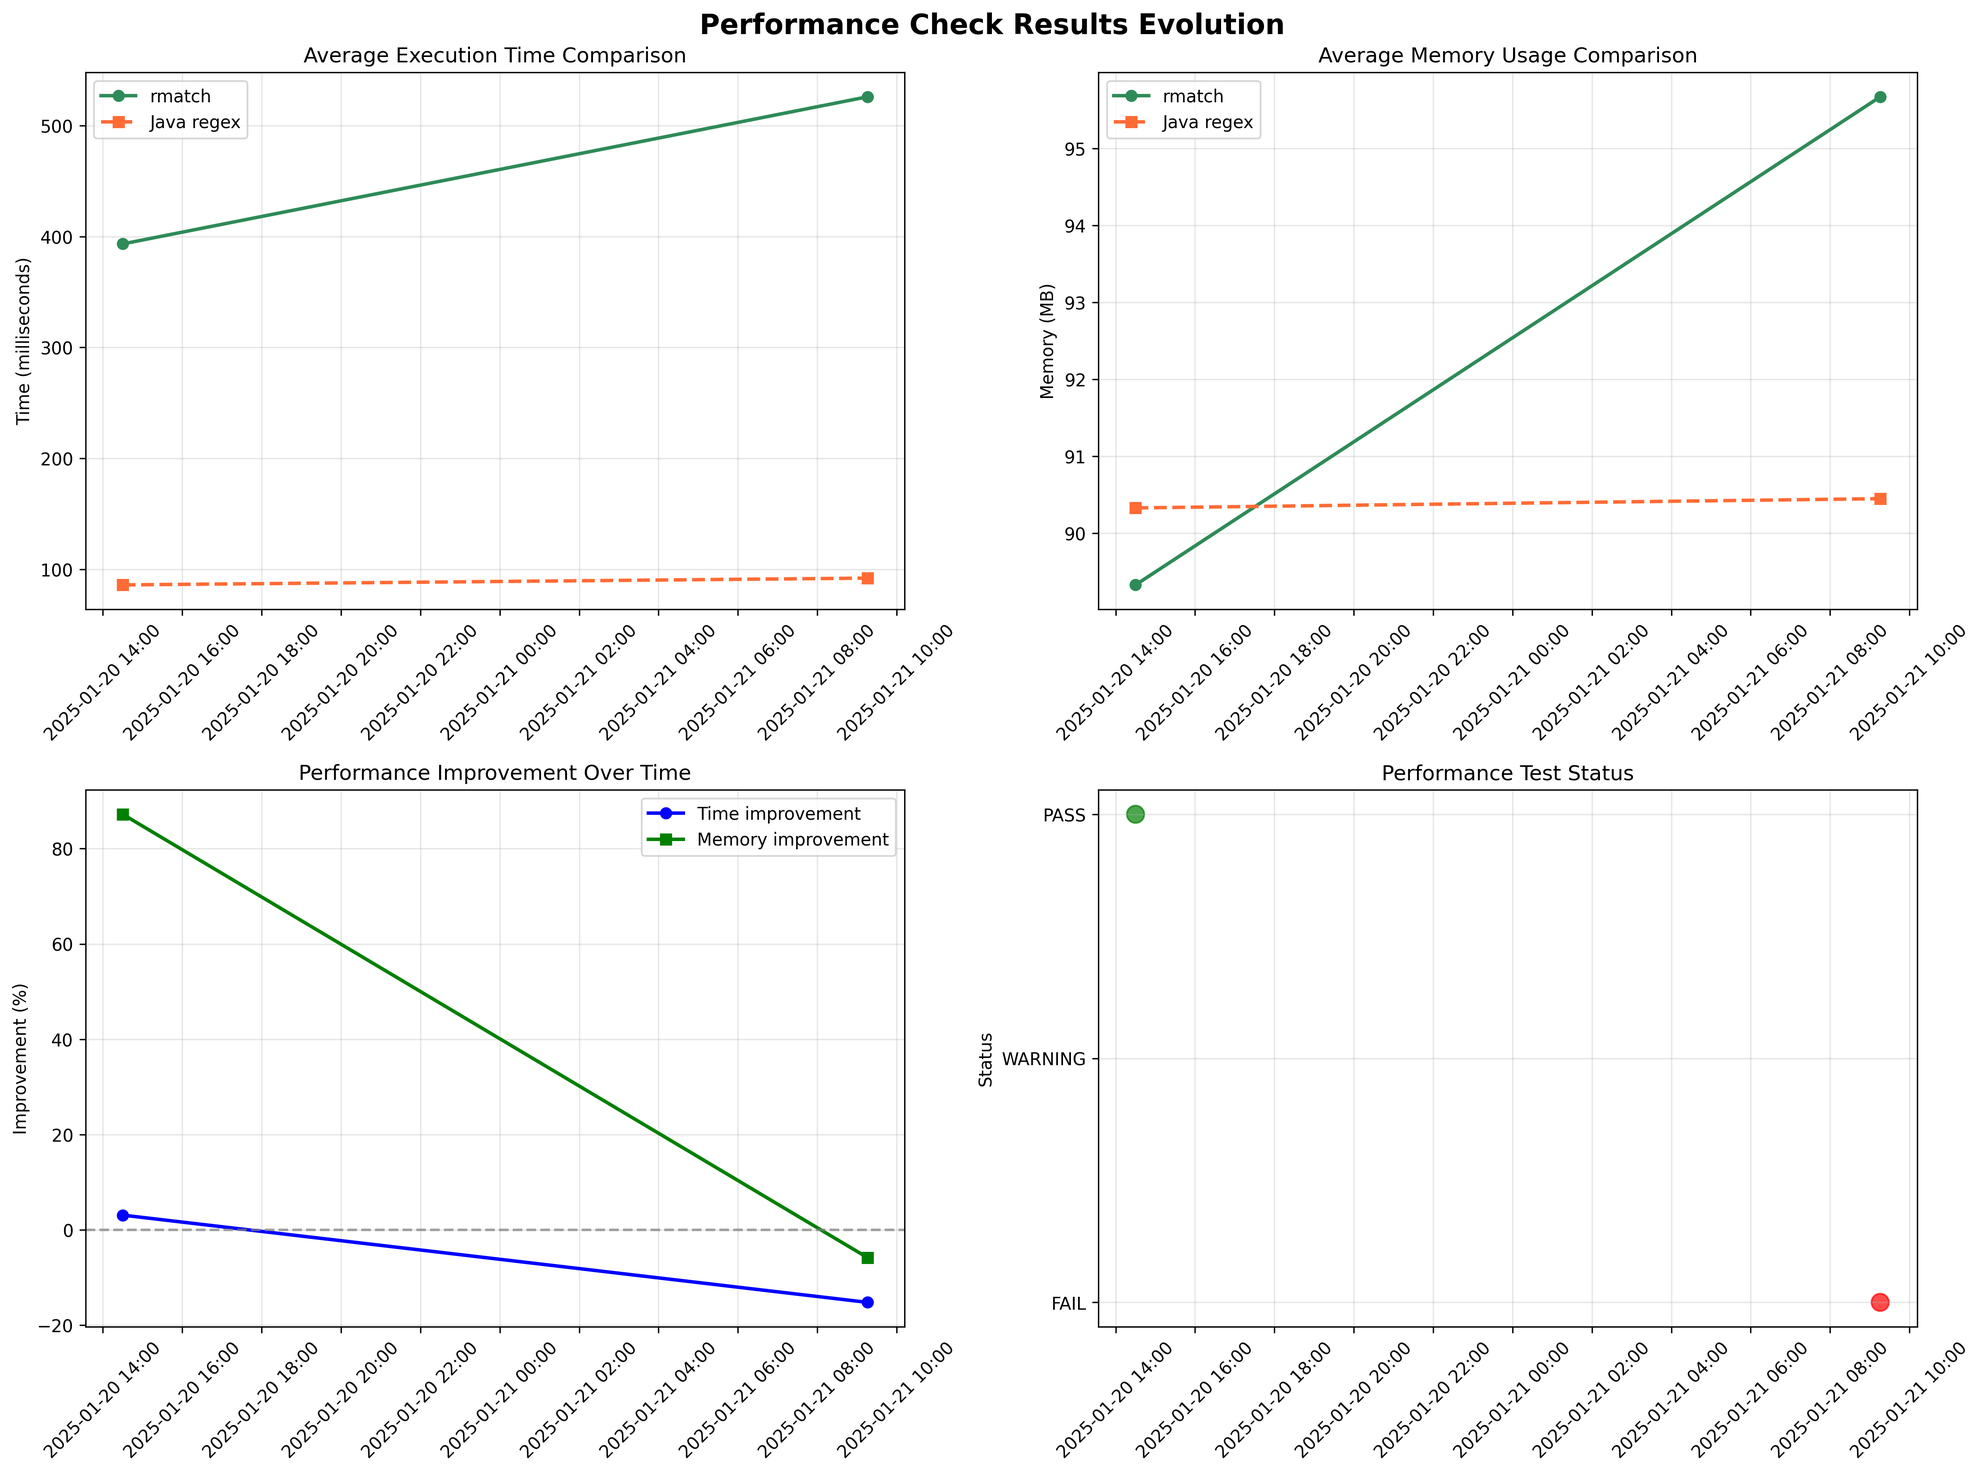
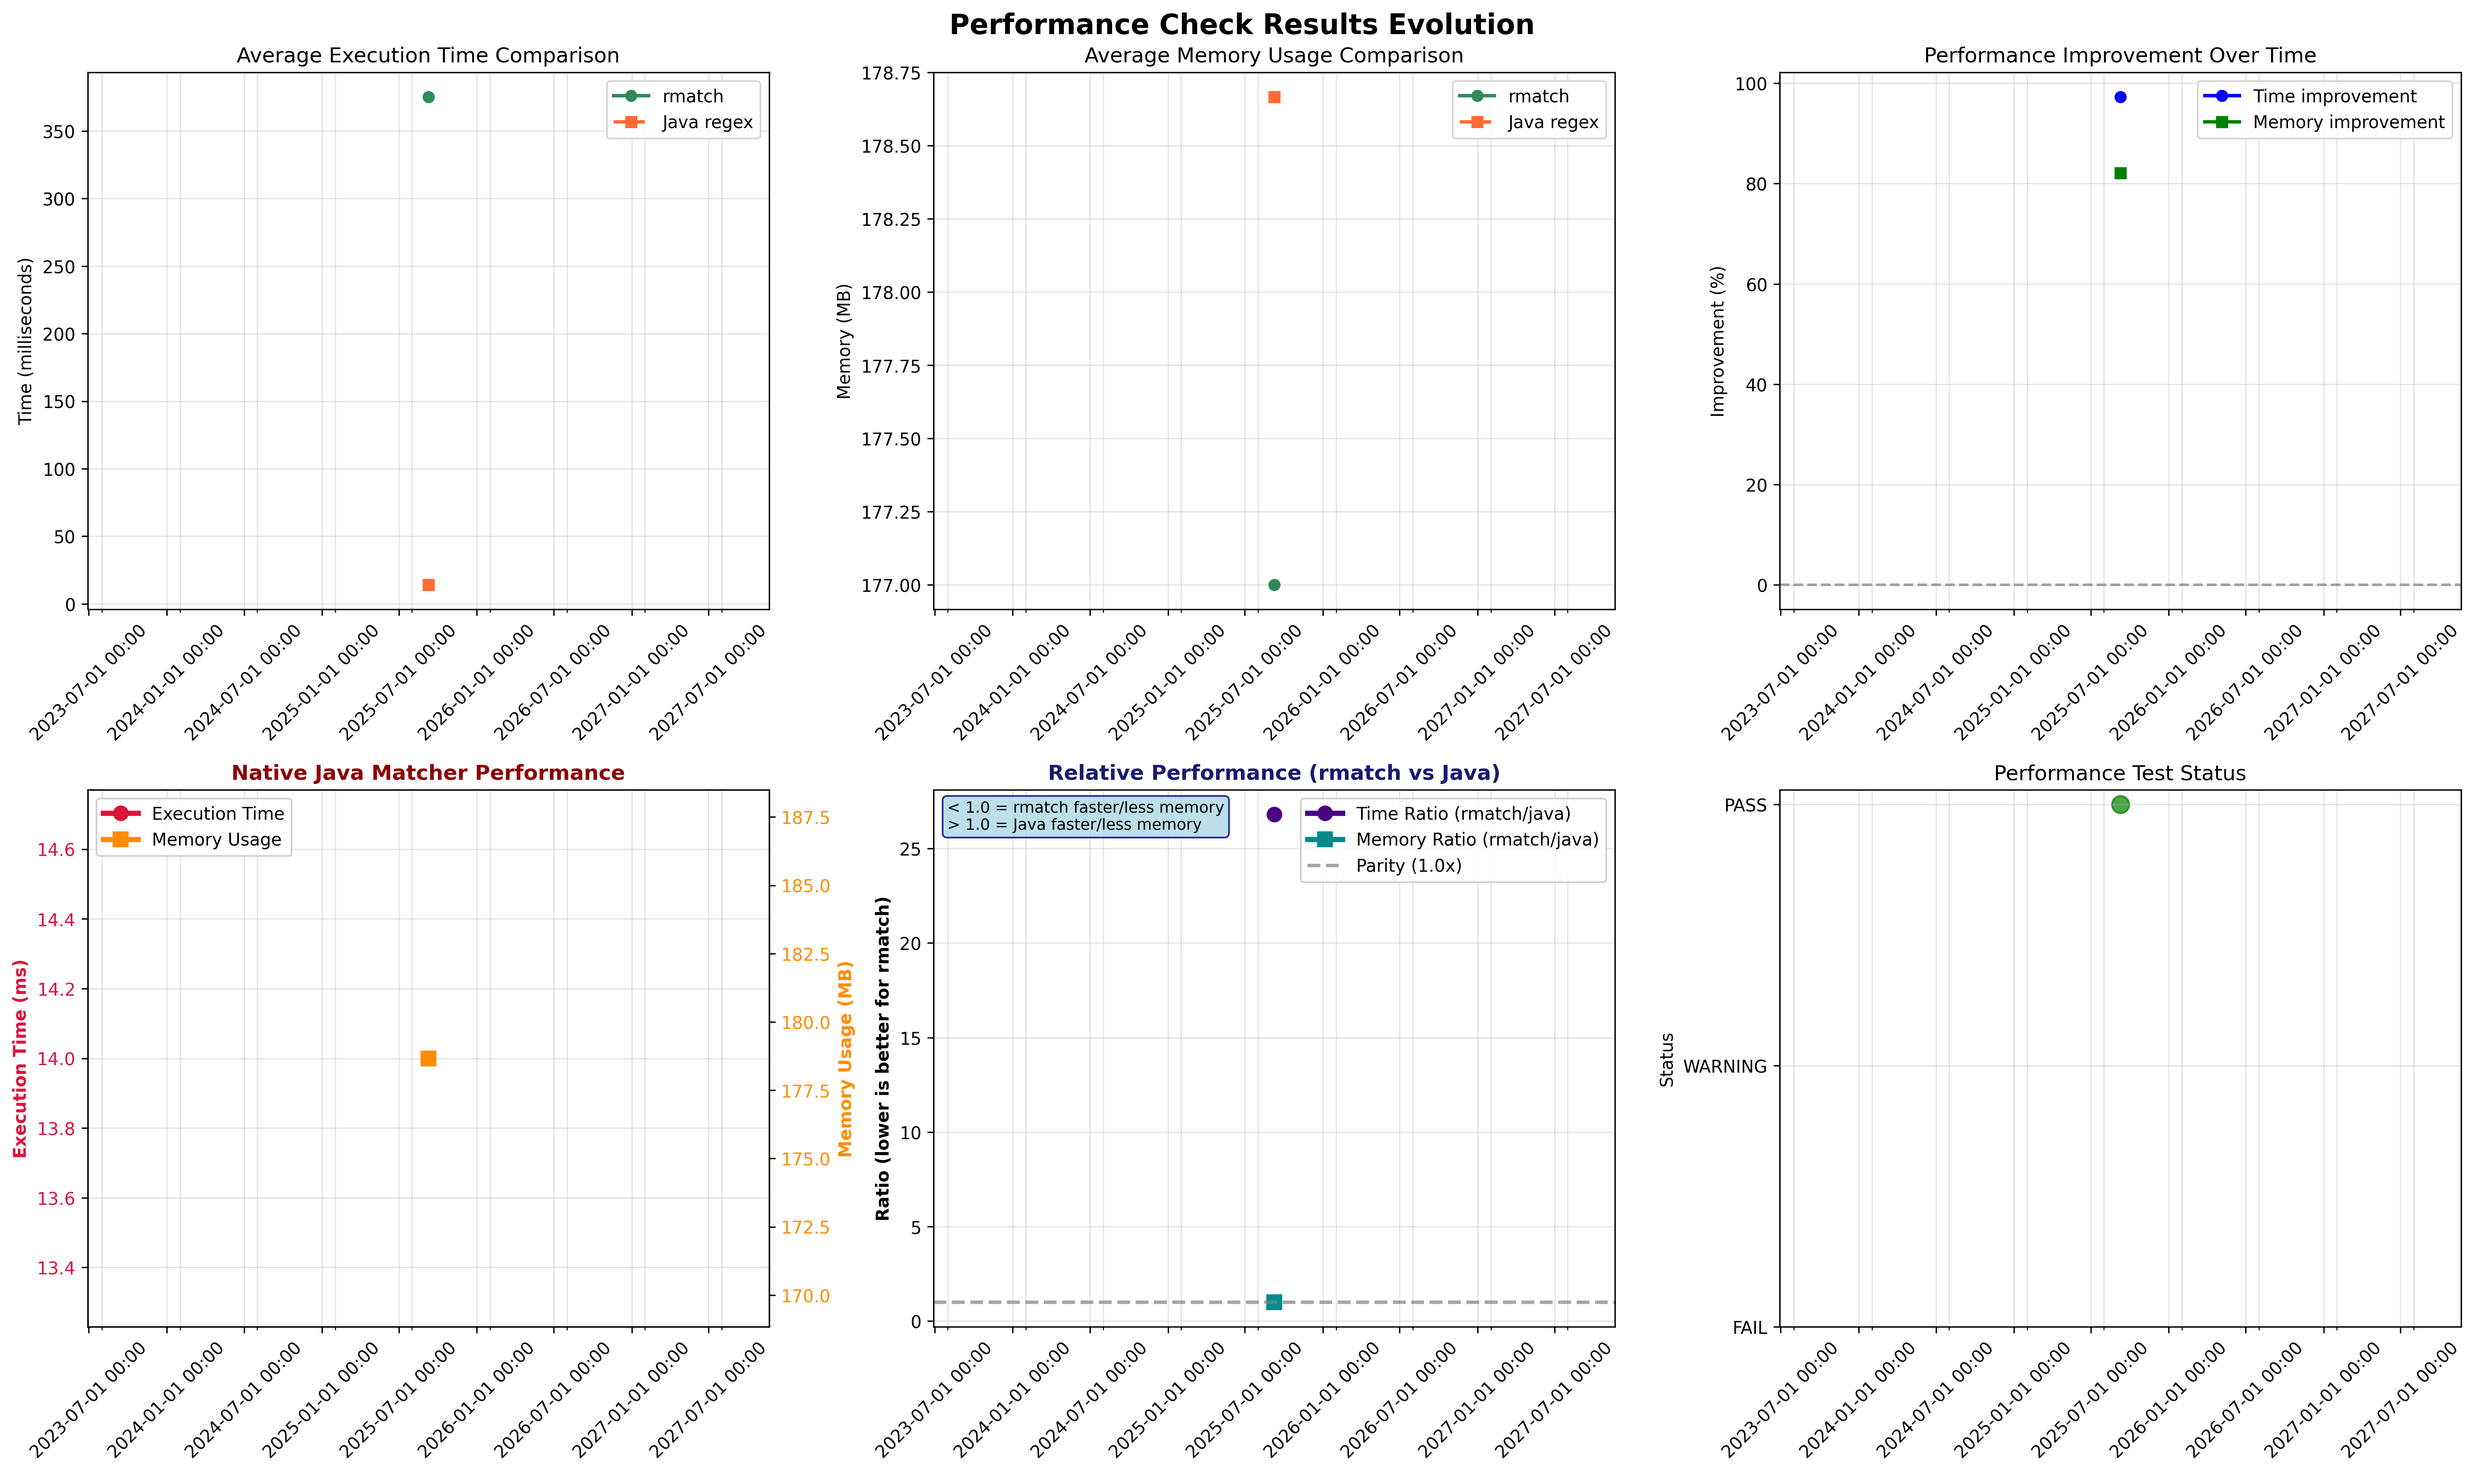
Add native Java data panels to performance comparisons

diff --git a/rmatch-tester/src/main/java/no/rmz/rmatch/performancetests/GitHubActionPerformanceTestRunner.java b/rmatch-tester/src/main/java/no/rmz/rmatch/performancetests/GitHubActionPerformanceTestRunner.java
@@ -196,10 +196,10 @@ public final class GitHubActionPerformanceTestRunner {
 
       markdown.append("**Result**: ").append(perfResult.getExplanation()).append("\n\n");
 
-      // Performance metrics table
-      markdown.append("### 📊 Performance Metrics\n\n");
-      markdown.append("| Metric | Current (rmatch) | Baseline | Δ |\n");
-      markdown.append("|--------|------------------|----------|---|\n");
+      // Performance metrics table for rmatch
+      markdown.append("### 📊 rmatch Performance Metrics\n\n");
+      markdown.append("| Metric | Current | Baseline | Δ |\n");
+      markdown.append("|--------|---------|----------|---|\n");
 
       if (!result.getRmatchResults().isEmpty()) {
         double currentAvgTime =
@@ -234,6 +234,124 @@ public final class GitHubActionPerformanceTestRunner {
             .append("| **Statistical Significance** | ")
             .append(perfResult.isStatisticallySignificant() ? "✅ Yes" : "⚠ Low")
             .append(" | - | - |\n");
+      }
+
+      // NEW: Native Java Matcher Performance Panel
+      markdown.append("\n### 🔴 Native Java Matcher Performance\n\n");
+      markdown.append("| Metric | Current Value |\n");
+      markdown.append("|--------|---------------|\n");
+
+      if (!result.getJavaResults().isEmpty()) {
+        double javaAvgTime =
+            result.getJavaResults().stream()
+                .mapToLong(r -> r.durationInMillis())
+                .average()
+                .orElse(0);
+        double javaAvgMemory =
+            result.getJavaResults().stream().mapToLong(r -> r.usedMemoryInMb()).average().orElse(0);
+
+        markdown
+            .append("| **Execution Time** | ")
+            .append(String.format("%.0f ms", javaAvgTime))
+            .append(" |\n");
+        markdown
+            .append("| **Memory Usage** | ")
+            .append(String.format("%.0f MB", javaAvgMemory))
+            .append(" |\n");
+        markdown
+            .append("| **Test Runs** | ")
+            .append(result.getJavaResults().size())
+            .append(" iterations |\n");
+      } else {
+        markdown.append("| No Java performance data available | - |\n");
+      }
+
+      // NEW: Relative Performance Comparison Panel
+      markdown.append("\n### ⚖ Relative Performance (rmatch vs Java)\n\n");
+      markdown.append("| Comparison | Ratio | Interpretation |\n");
+      markdown.append("|------------|-------|----------------|\n");
+
+      if (!result.getRmatchResults().isEmpty() && !result.getJavaResults().isEmpty()) {
+        double rmatchAvgTime =
+            result.getRmatchResults().stream()
+                .mapToLong(r -> r.durationInMillis())
+                .average()
+                .orElse(0);
+        double rmatchAvgMemory =
+            result.getRmatchResults().stream()
+                .mapToLong(r -> r.usedMemoryInMb())
+                .average()
+                .orElse(0);
+        double javaAvgTime =
+            result.getJavaResults().stream()
+                .mapToLong(r -> r.durationInMillis())
+                .average()
+                .orElse(0);
+        double javaAvgMemory =
+            result.getJavaResults().stream().mapToLong(r -> r.usedMemoryInMb()).average().orElse(0);
+
+        // Calculate ratios
+        double timeRatio = javaAvgTime > 0 ? rmatchAvgTime / javaAvgTime : 0;
+        double memoryRatio = javaAvgMemory > 0 ? rmatchAvgMemory / javaAvgMemory : 0;
+
+        String timeInterpretation;
+        String timeEmoji;
+        if (timeRatio < 0.8) {
+          timeInterpretation = "rmatch significantly faster";
+          timeEmoji = "🟢";
+        } else if (timeRatio < 1.2) {
+          timeInterpretation = "comparable performance";
+          timeEmoji = "🟡";
+        } else {
+          timeInterpretation = "Java regex faster";
+          timeEmoji = "🔴";
+        }
+
+        String memoryInterpretation;
+        String memoryEmoji;
+        if (memoryRatio < 0.8) {
+          memoryInterpretation = "rmatch uses less memory";
+          memoryEmoji = "🟢";
+        } else if (memoryRatio < 1.2) {
+          memoryInterpretation = "comparable memory usage";
+          memoryEmoji = "🟡";
+        } else {
+          memoryInterpretation = "Java regex uses less memory";
+          memoryEmoji = "🔴";
+        }
+
+        markdown
+            .append("| **Time Ratio (rmatch/java)** | ")
+            .append(String.format("%.2fx", timeRatio))
+            .append(" | ")
+            .append(timeEmoji)
+            .append(" ")
+            .append(timeInterpretation)
+            .append(" |\n");
+        markdown
+            .append("| **Memory Ratio (rmatch/java)** | ")
+            .append(String.format("%.2fx", memoryRatio))
+            .append(" | ")
+            .append(memoryEmoji)
+            .append(" ")
+            .append(memoryInterpretation)
+            .append(" |\n");
+
+        // Add overall summary
+        boolean timeWin = timeRatio < 1.0;
+        boolean memoryWin = memoryRatio < 1.0;
+        String overallSummary;
+        if (timeWin && memoryWin) {
+          overallSummary = "🏆 rmatch outperforms Java regex in both time and memory";
+        } else if (timeWin || memoryWin) {
+          overallSummary =
+              "⚖ Mixed performance: rmatch better in " + (timeWin ? "time" : "memory");
+        } else {
+          overallSummary = "❌ Java regex outperforms rmatch in both metrics";
+        }
+        markdown.append("| **Overall Assessment** | - | ").append(overallSummary).append(" |\n");
+      } else {
+        markdown.append("| No comparative data available | - | - |\n");
       }
 
       markdown.append("\n### 🔬 Test Configuration\n");

diff --git a/scripts/generate_performance_charts.py b/scripts/generate_performance_charts.py
@@ -159,8 +159,8 @@ def create_performance_check_chart(df, output_dir):
     # Sort by date
     df = df.sort_values('datetime')
     
-    # Create figure with subplots
-    fig, ((ax1, ax2), (ax3, ax4)) = plt.subplots(2, 2, figsize=(16, 12))
+    # Create figure with 6 subplots (2x3) to include the requested new panels
+    fig, ((ax1, ax2, ax3), (ax4, ax5, ax6)) = plt.subplots(2, 3, figsize=(20, 12))
     fig.suptitle('Performance Check Results Evolution', fontsize=16, fontweight='bold')
     
     # 1. Execution time comparison
@@ -210,7 +210,59 @@ def create_performance_check_chart(df, output_dir):
             ax3.grid(True, alpha=0.3)
             format_recent_time_axis(ax3)
     
-    # 4. Test status over time
+    # 4. NEW: Dedicated Native Java Matcher Performance Panel
+    if 'java_avg_time_ms' in df.columns and 'java_avg_memory_mb' in df.columns:
+        valid_data = df.dropna(subset=['java_avg_time_ms', 'java_avg_memory_mb'])
+        if not valid_data.empty:
+            # Create secondary y-axis for memory
+            ax4_mem = ax4.twinx()
+            
+            # Time on left axis (red theme for Java)
+            line1 = ax4.plot(valid_data['datetime'], valid_data['java_avg_time_ms'], 
+                    'o-', label='Execution Time', linewidth=3, markersize=8, color='#DC143C')
+            ax4.set_ylabel('Execution Time (ms)', color='#DC143C', fontweight='bold')
+            ax4.tick_params(axis='y', labelcolor='#DC143C', labelsize=10)
+            
+            # Memory on right axis (orange theme)  
+            line2 = ax4_mem.plot(valid_data['datetime'], valid_data['java_avg_memory_mb'],
+                    's-', label='Memory Usage', linewidth=3, markersize=8, color='#FF8C00')
+            ax4_mem.set_ylabel('Memory Usage (MB)', color='#FF8C00', fontweight='bold')
+            ax4_mem.tick_params(axis='y', labelcolor='#FF8C00', labelsize=10)
+            
+            ax4.set_title('Native Java Matcher Performance', fontweight='bold', color='#8B0000', fontsize=12)
+            ax4.grid(True, alpha=0.3)
+            format_recent_time_axis(ax4)
+            
+            # Add legend combining both lines
+            lines1, labels1 = ax4.get_legend_handles_labels()
+            lines2, labels2 = ax4_mem.get_legend_handles_labels()
+            ax4.legend(lines1 + lines2, labels1 + labels2, loc='upper left', framealpha=0.9)
+    
+    # 5. NEW: Relative Performance Ratios Panel  
+    if 'rmatch_avg_time_ms' in df.columns and 'java_avg_time_ms' in df.columns and 'rmatch_avg_memory_mb' in df.columns and 'java_avg_memory_mb' in df.columns:
+        valid_data = df.dropna(subset=['rmatch_avg_time_ms', 'java_avg_time_ms', 'rmatch_avg_memory_mb', 'java_avg_memory_mb'])
+        if not valid_data.empty:
+            # Calculate ratios (rmatch / java)
+            time_ratio = valid_data['rmatch_avg_time_ms'] / valid_data['java_avg_time_ms']
+            memory_ratio = valid_data['rmatch_avg_memory_mb'] / valid_data['java_avg_memory_mb']
+            
+            ax5.plot(valid_data['datetime'], time_ratio, 'o-', 
+                    label='Time Ratio (rmatch/java)', linewidth=3, markersize=8, color='#4B0082')
+            ax5.plot(valid_data['datetime'], memory_ratio, 's-', 
+                    label='Memory Ratio (rmatch/java)', linewidth=3, markersize=8, color='#008B8B')
+            ax5.axhline(y=1.0, color='gray', linestyle='--', alpha=0.7, linewidth=2, label='Parity (1.0x)')
+            ax5.set_title('Relative Performance (rmatch vs Java)', fontweight='bold', color='#191970', fontsize=12)
+            ax5.set_ylabel('Ratio (lower is better for rmatch)', fontweight='bold')
+            ax5.legend(framealpha=0.9)
+            ax5.grid(True, alpha=0.3)
+            format_recent_time_axis(ax5)
+            
+            # Add annotations for better understanding with improved styling
+            ax5.text(0.02, 0.98, '< 1.0 = rmatch faster/less memory\n> 1.0 = Java faster/less memory', 
+                    transform=ax5.transAxes, fontsize=9, verticalalignment='top',
+                    bbox=dict(boxstyle='round,pad=0.3', facecolor='lightblue', alpha=0.8, edgecolor='navy'))
+    
+    # 6. Test status over time
     if 'status' in df.columns:
         valid_data = df.dropna(subset=['status'])
         if not valid_data.empty:
@@ -221,13 +273,13 @@ def create_performance_check_chart(df, output_dir):
             # Create scatter plot with colors
             colors = ['red' if s == 'FAIL' else 'orange' if s == 'WARNING' else 'green' 
                      for s in valid_data['status']]
-            ax4.scatter(valid_data['datetime'], status_numeric, c=colors, s=100, alpha=0.7)
-            ax4.set_title('Performance Test Status')
-            ax4.set_ylabel('Status')
-            ax4.set_yticks([-1, 0, 1])
-            ax4.set_yticklabels(['FAIL', 'WARNING', 'PASS'])
-            ax4.grid(True, alpha=0.3)
-            format_recent_time_axis(ax4)
+            ax6.scatter(valid_data['datetime'], status_numeric, c=colors, s=100, alpha=0.7)
+            ax6.set_title('Performance Test Status')
+            ax6.set_ylabel('Status')
+            ax6.set_yticks([-1, 0, 1])
+            ax6.set_yticklabels(['FAIL', 'WARNING', 'PASS'])
+            ax6.grid(True, alpha=0.3)
+            format_recent_time_axis(ax6)
     
     plt.tight_layout()
     

diff --git a/PERFORMANCE_CHARTS.md b/PERFORMANCE_CHARTS.md
@@ -4,7 +4,7 @@ This document explains the performance visualization system in rmatch, which aut
 
 ## Overview
 
-The performance charting system supports multiple data sources and generates different types of visualizations to track rmatch's performance evolution over time.
+The performance charting system supports multiple data sources and generates different types of visualizations to track rmatch's performance evolution over time. Enhanced with dedicated native Java performance panels and relative performance comparison displays.
 
 ## Chart Types
 
@@ -20,10 +20,12 @@ The performance charting system supports multiple data sources and generates dif
 - **Source**: `benchmarks/results/performance-check-*.json`
 - **Data Period**: Recent automated performance tests
 - **Charts Generated**:
-  - `performance_check_evolution.png` - Detailed 4-panel view showing:
+  - `performance_check_evolution.png` - Enhanced 6-panel view showing:
     - Execution time comparison (rmatch vs Java regex)
-    - Memory usage comparison
-    - Performance improvement percentages
+    - Memory usage comparison (rmatch vs Java regex)
+    - Performance improvement percentages over time
+    - **NEW: Native Java Matcher Performance** - Dedicated panel showing Java execution time and memory usage
+    - **NEW: Relative Performance Ratios** - Panel showing rmatch/Java ratios for time and memory with interpretations
     - Test status evolution (PASS/WARNING/FAIL)
   - `performance_check_overview.png` - Simplified scatter plot for recent results
 
